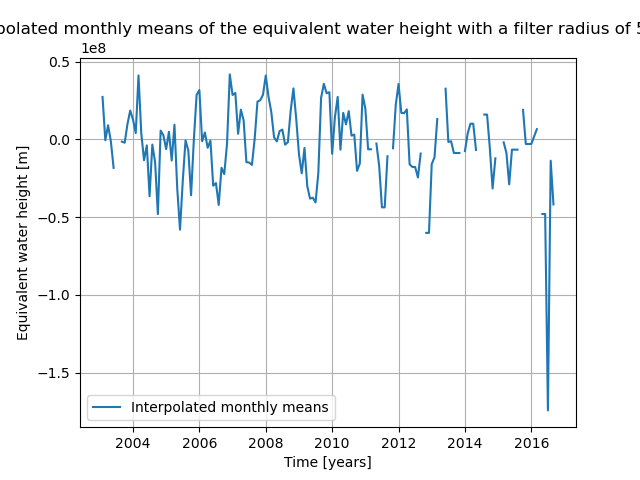
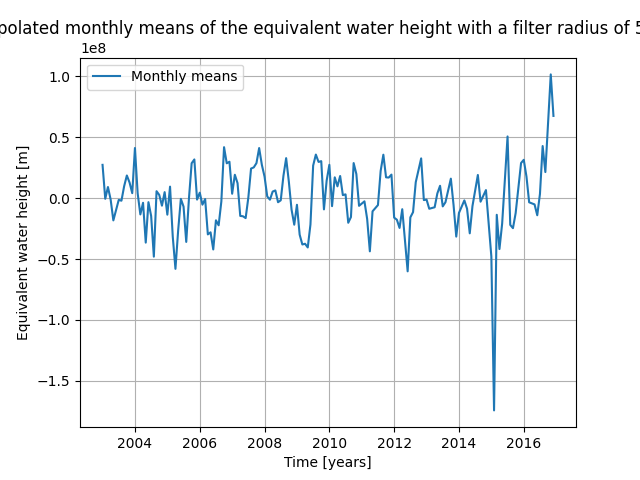
fixed interpolation

diff --git a/task_02/data_processing.py b/task_02/data_processing.py
@@ -308,6 +308,30 @@ def apply_ewh(dataset, M, R, rho, k, spacing=1, area=None):
     return(new_dataset)
 
 
+def interpolate_missing_data(values):
+    """
+    This function is used to interpolate the missing data in the datasets.
+    """
+    # create date vector
+    startyr = 2003
+    endyear = 2016
+    mn = np.array(range(1,13))
+    yr = np.array(range(startyr,endyear+1))
+
+    # convert to decimal years
+    dec_yr = []
+    for year in yr:
+        for month in mn:
+            dec_yr.append(year+((month-1)/12))
+
+    dec_yr = np.array(dec_yr)
+
+    # interpolate missing data
+    for i in range(np.shape(values)[0]):
+        if(values[i] == 0):
+            values[i] = np.mean([float(values[i-1]), float(values[i+1])])
+    return(dec_yr, values)
+
 def gaussian_filtering_factors(degree, filter_radius=200):
     """
     This function is used to calculate the gaussian filtering factors.
@@ -370,6 +394,7 @@ def plot_xy(diagrams, names=["measurement"], title="automatic", plot="show", axi
     elif(plot == "save"):
         plt.savefig(title + ".png")
     plt.cla()
+
 
 # Beginning of the Main Programm
 # -----------------------------------------------------------------------------
@@ -587,49 +612,41 @@ if __name__ == '__main__':
     # Delete the temporary variables
     del new_dataset
 
+
     # Interpolate the missing months
-    temp_vector = np.zeros(len(months)*(last_year-first_year+1))*np.nan
+    temp_vector = np.zeros(len(months)*(last_year-first_year+1)) #*np.nan
     graph_means = {"x": [], "y": []}
     for dataset in main.select_dataset(main.datasets, "name", f'collection_of_monthly_ewh_means_f{filter_radius}')["data"]:
         month = int(dataset["date"].split("-")[1])
         year = int(dataset["date"].split("-")[0])
         temp_vector[(year-first_year)*len(months)+month-1] = dataset["mean"]
-    temp_vector_2 = []
-    for year in range(last_year-first_year+1):
-        for month in range(len(months)):
-            if (temp_vector[year*len(months)+month] is not np.nan):
-                temp_vector_2.append(float(temp_vector[year*len(months)+month]))
-    dates, means = fu.interp_missing_months(np.array(temp_vector_2))
-    print(dates, means)
+    dates, means = interpolate_missing_data(temp_vector)
+
+    # Save the interpolated monthly means
+    new_dataset = {"name": f'interpolated_monthly_ewh_means_f{filter_radius}', "ewh": means, "dates": dates}
+
+    # Plot the uninterpolated monthly means
     graph_means["y"] = temp_vector
-    for year in range(last_year-first_year+1):
-        for month in range(len(months)):
-            graph_means["x"].append(year+(month/12)+first_year)
+    graph_means["x"] = dates
     plot_xy([graph_means],
             names=["Monthly means"],
             title=f'Monthly means of the equivalent water height with a filter radius of {filter_radius} km',
             axis={"x": "Time [years]", "y": "Equivalent water height [m]"},
             plot="save")
 
-    main.datasets.append({"name": f'interpolated_monthly_ewh_means_f{filter_radius}', "ewh": means, "dates": dates})
+    main.datasets.append(new_dataset)
 
-    # Delete the temporary variables
-    del temp_vector, dates, means, graph_means
-    
     # Plot the interpolated monthly means
-    dataset = main.select_dataset(main.datasets, "name", f'interpolated_monthly_ewh_means_f{filter_radius}')
-    graph_int_means = {"x": [], "y": []}
-    for index, date in enumerate(dataset["dates"]):
-        if(dataset["ewh"][index] != np.nan):
-            graph_int_means["x"].append(float(date))
-            graph_int_means["y"].append(float(dataset["ewh"][index]))
-    main.datasets.append({"name": f'plot_interpolated_monthly_ewh_means_f{filter_radius}', "data": graph_int_means})
-    plot_xy([graph_int_means],
-            names=["Interpolated monthly means"],
+    graph_means["y"] = means
+    graph_means["x"] = dates
+    plot_xy([graph_means],
+            names=["Monthly means"],
             title=f'Interpolated monthly means of the equivalent water height with a filter radius of {filter_radius} km',
             axis={"x": "Time [years]", "y": "Equivalent water height [m]"},
             plot="save")
-    del graph_int_means, dataset
+
+    # Delete the temporary variables
+    del temp_vector, dates, means, graph_means, new_dataset
 
     print(f'[Done] Task F')
 
@@ -638,8 +655,8 @@ if __name__ == '__main__':
     # -----------------------------------------------
 
     # Calculate the linear trend
-    timeseries = main.select_dataset(main.datasets, "name", f'plot_interpolated_monthly_ewh_means_f{filter_radius}')["data"]["y"]
-    time = main.select_dataset(main.datasets, "name", f'plot_interpolated_monthly_ewh_means_f{filter_radius}')["data"]["x"]
+    timeseries = main.select_dataset(main.datasets, "name", f'interpolated_monthly_ewh_means_f{filter_radius}')["ewh"]
+    time = main.select_dataset(main.datasets, "name", f'interpolated_monthly_ewh_means_f{filter_radius}')["dates"]
     timeseries = np.array(timeseries)
     time = np.array(time)
     slope = (len(timeseries) * np.sum(time*timeseries) - np.sum(time) * np.sum(timeseries)) / (len(time)*np.sum(time*time) - np.sum(time) ** 2)
@@ -655,7 +672,6 @@ if __name__ == '__main__':
     del timeseries, time, slope, gigatonnes
 
     print(f'[Done] Task G')
-
 
     # Post-processing
     # -----------------------------------------------
